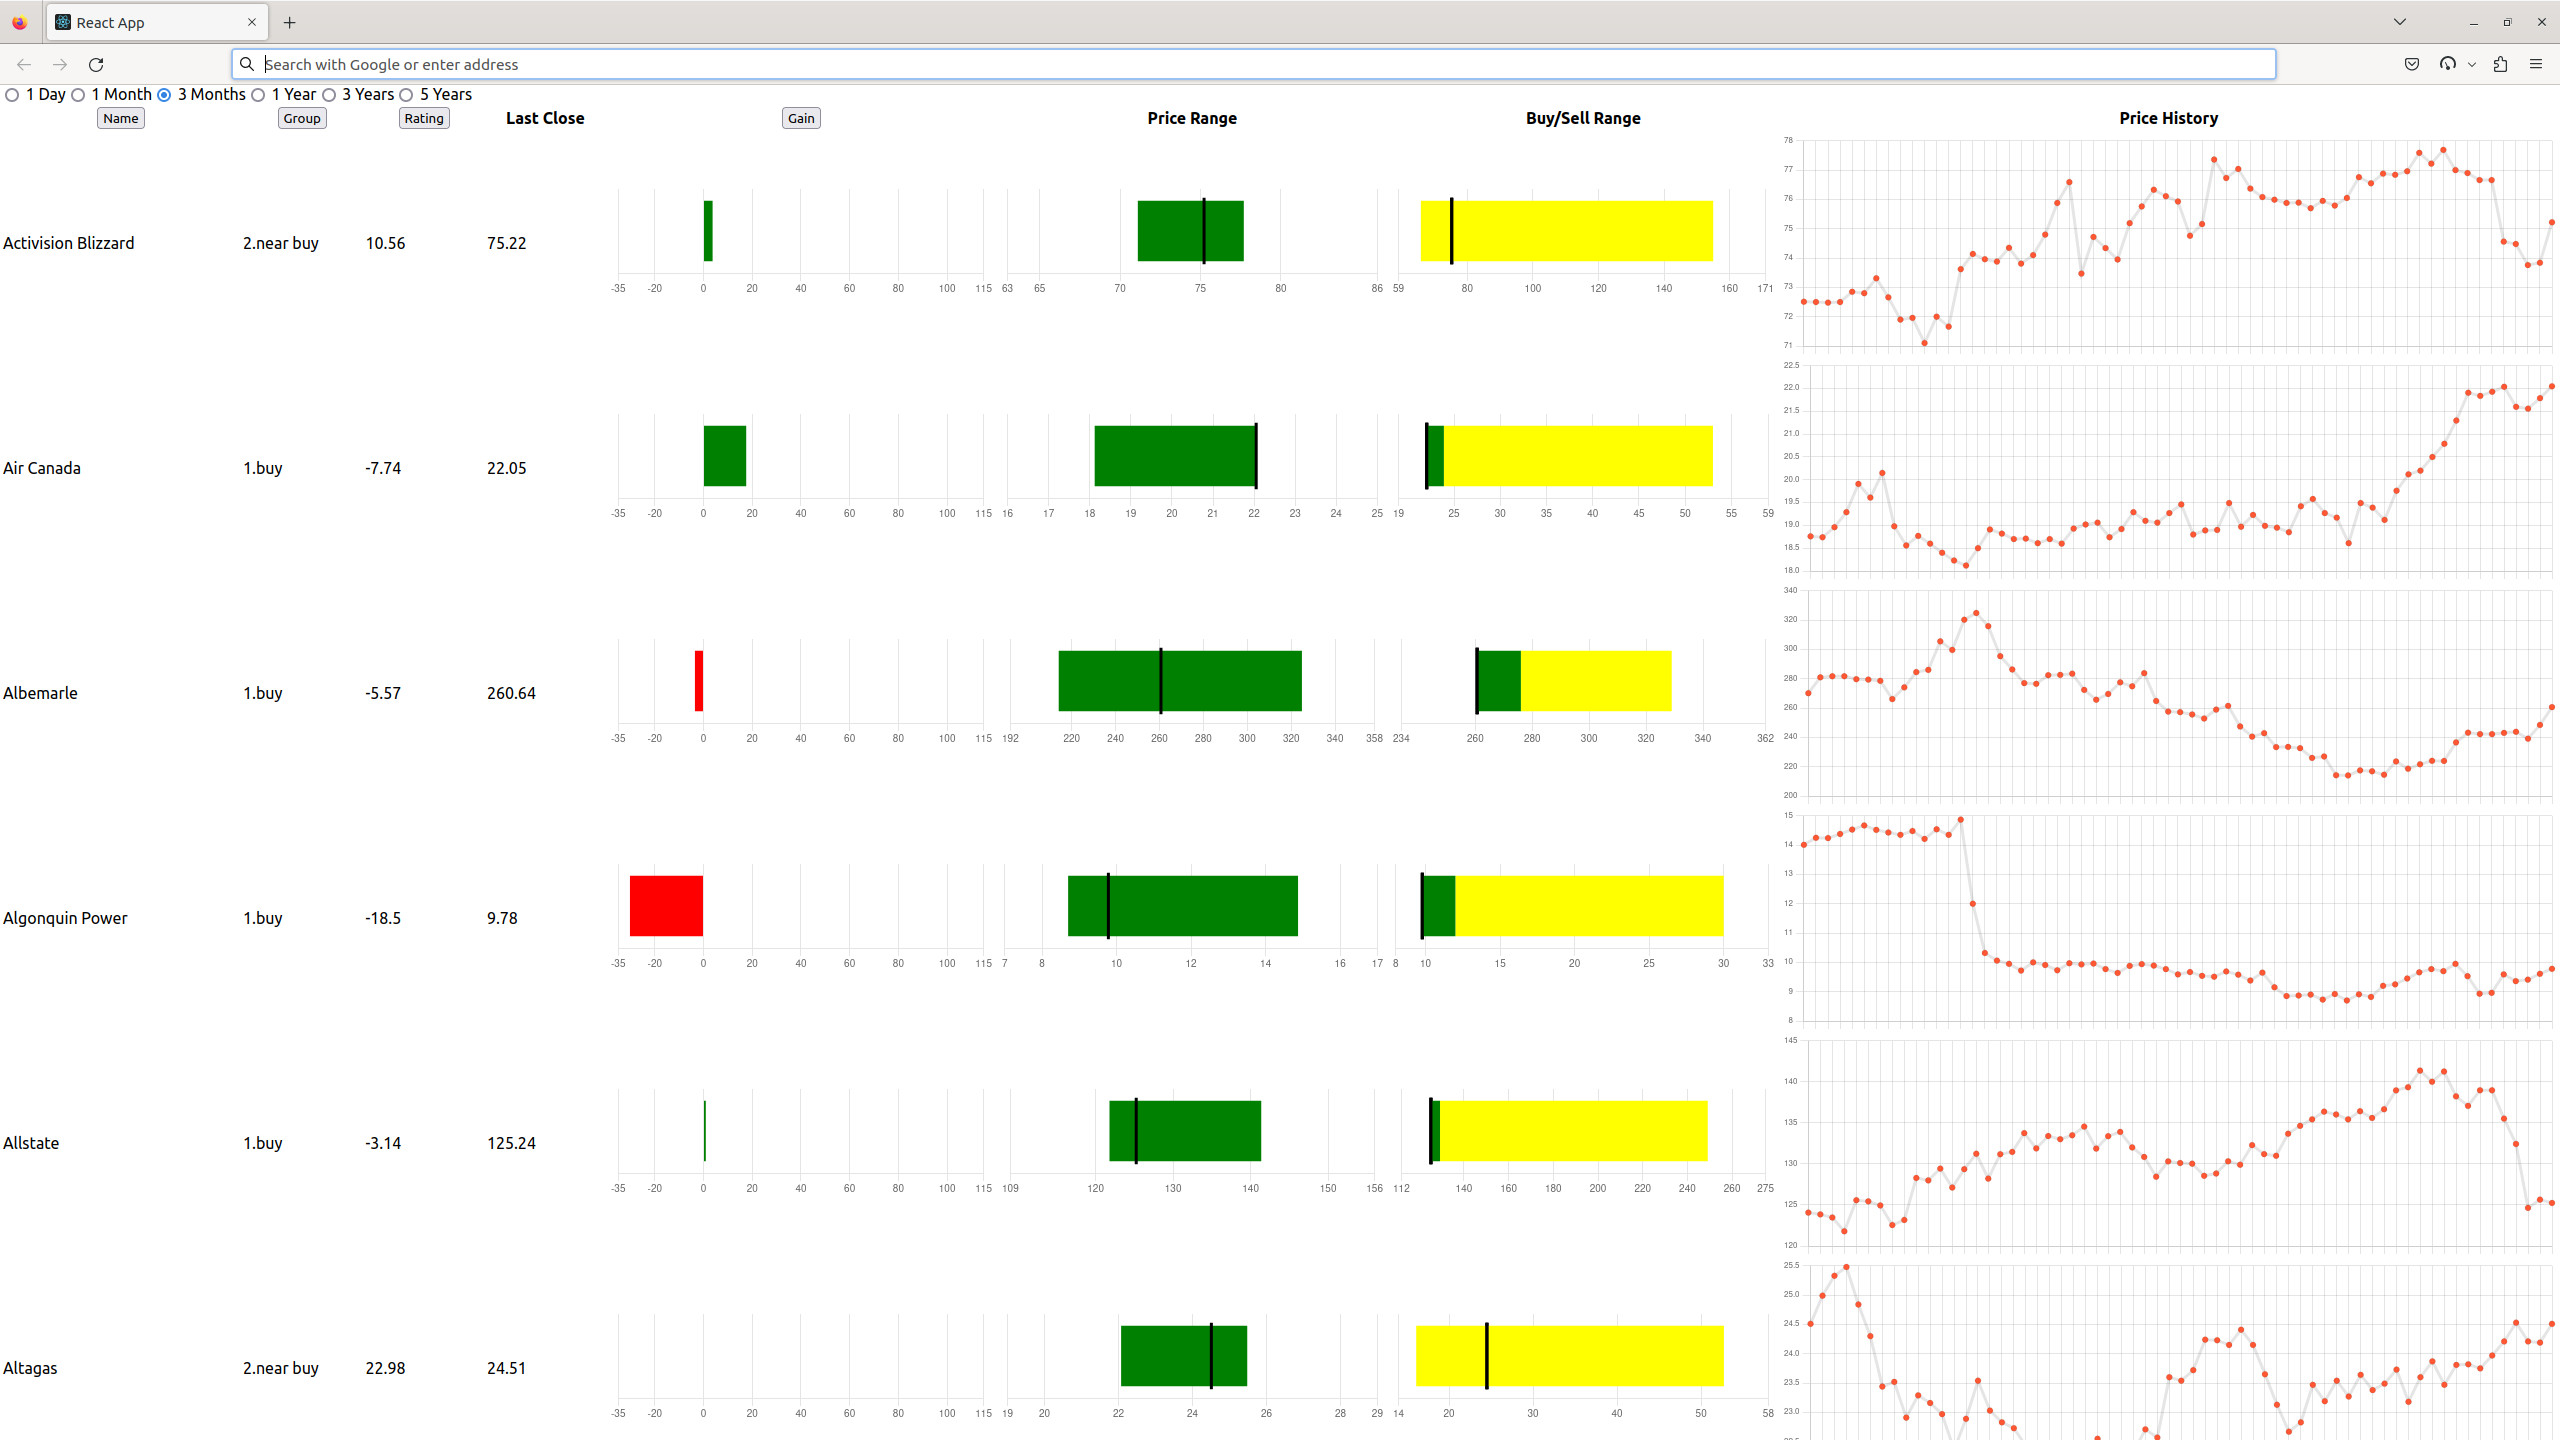
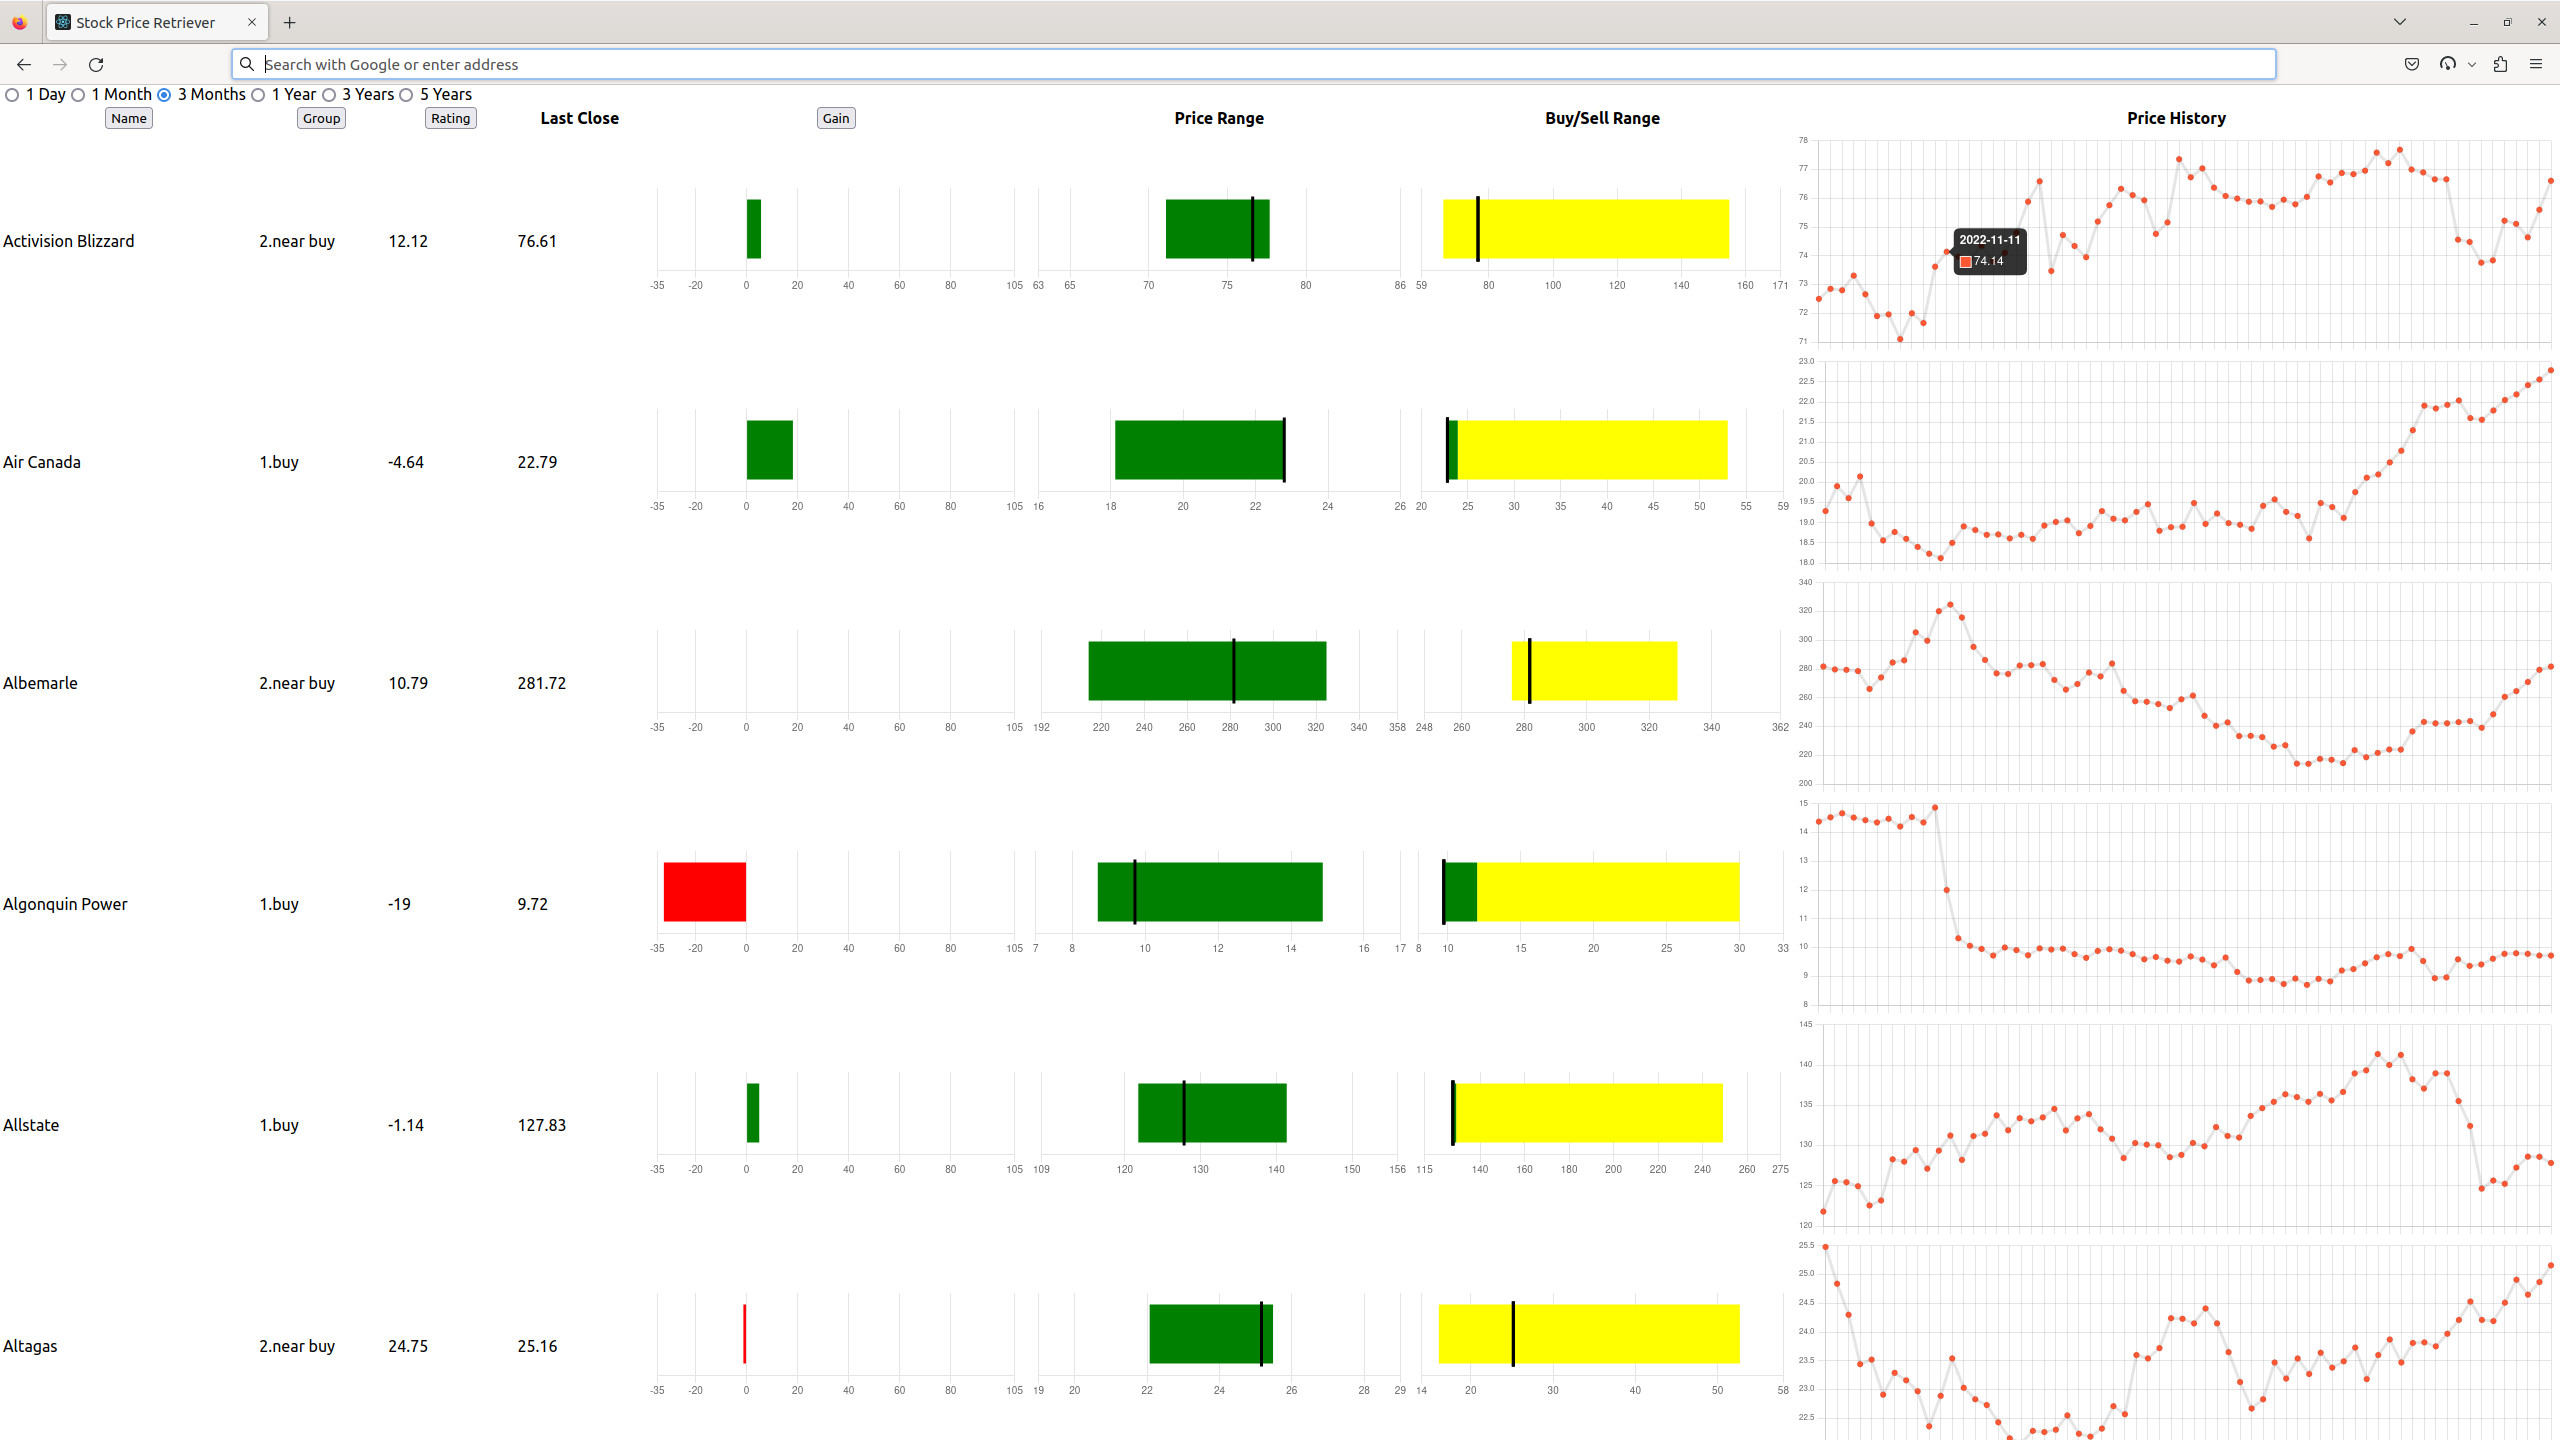
Gave web page a title Gave website a real title. Created new screen shot of web page, including new title.

diff --git a/web/public/index.html b/web/public/index.html
@@ -25,7 +25,7 @@
       work correctly both with client-side routing and a non-root public URL.
       Learn how to configure a non-root public URL by running `npm run build`.
     -->
-    <title>React App</title>
+    <title>Stock Price Retriever</title>
     <script>
       //const api_endpoint = "https://n7zmmbsqxc.execute-api.us-east-1.amazonaws.com/Prod/data";
       //const api_endpoint = "https://jep1avv9ui.execute-api.us-east-1.amazonaws.com/Prod/data";
